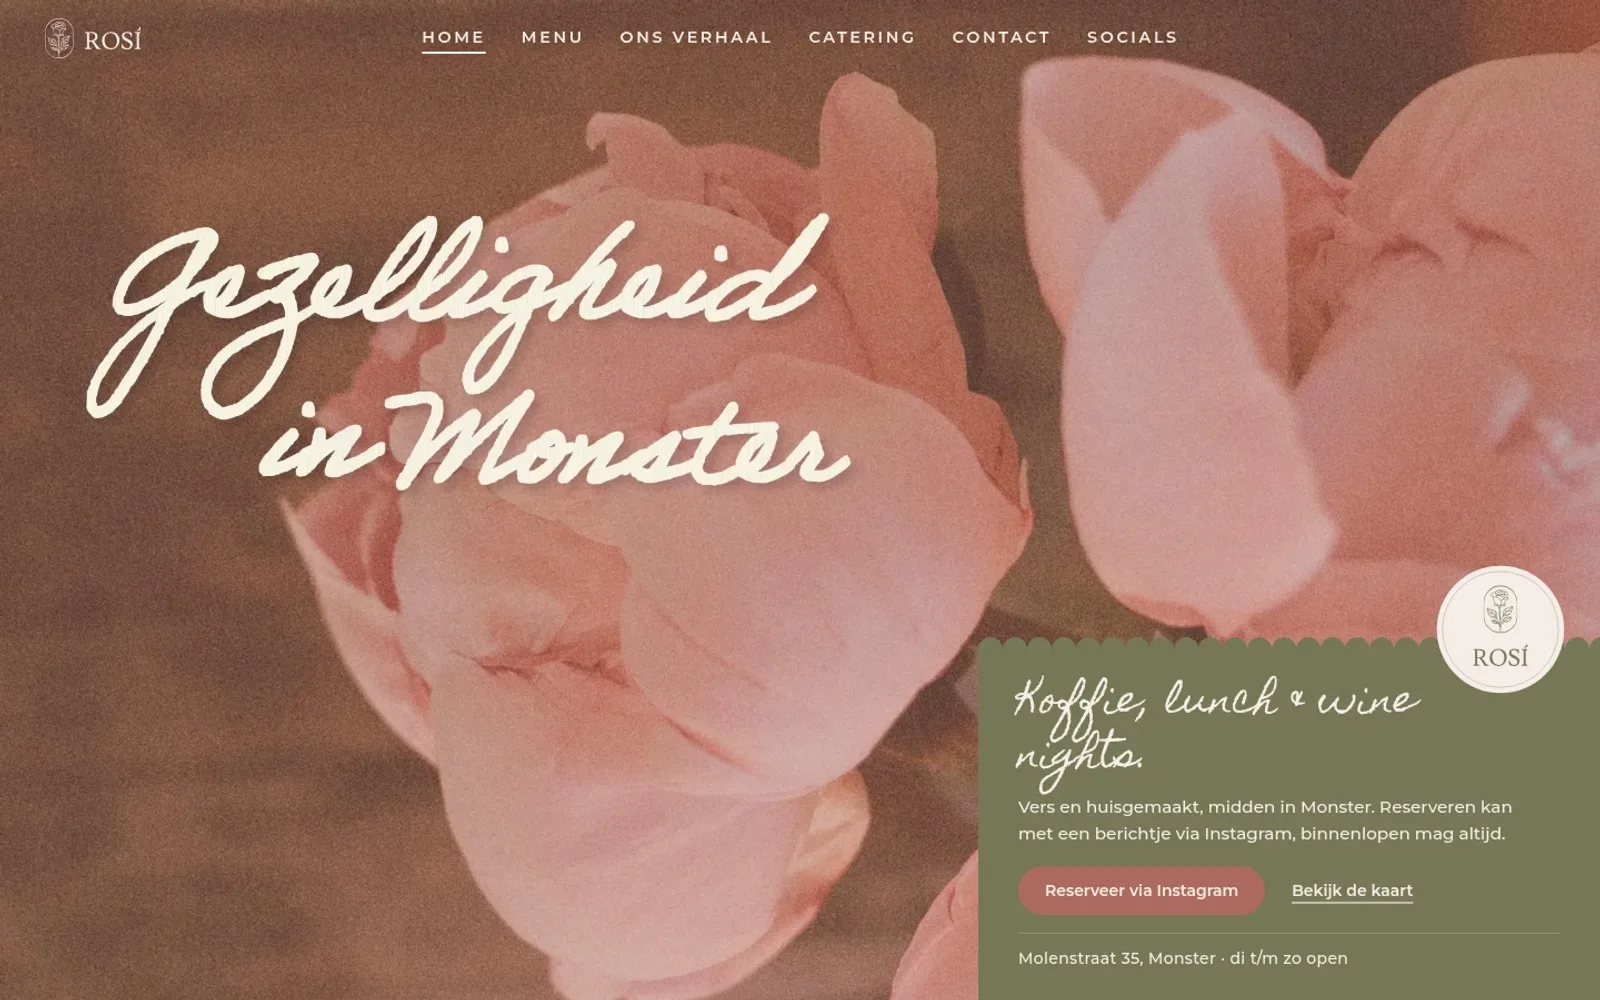
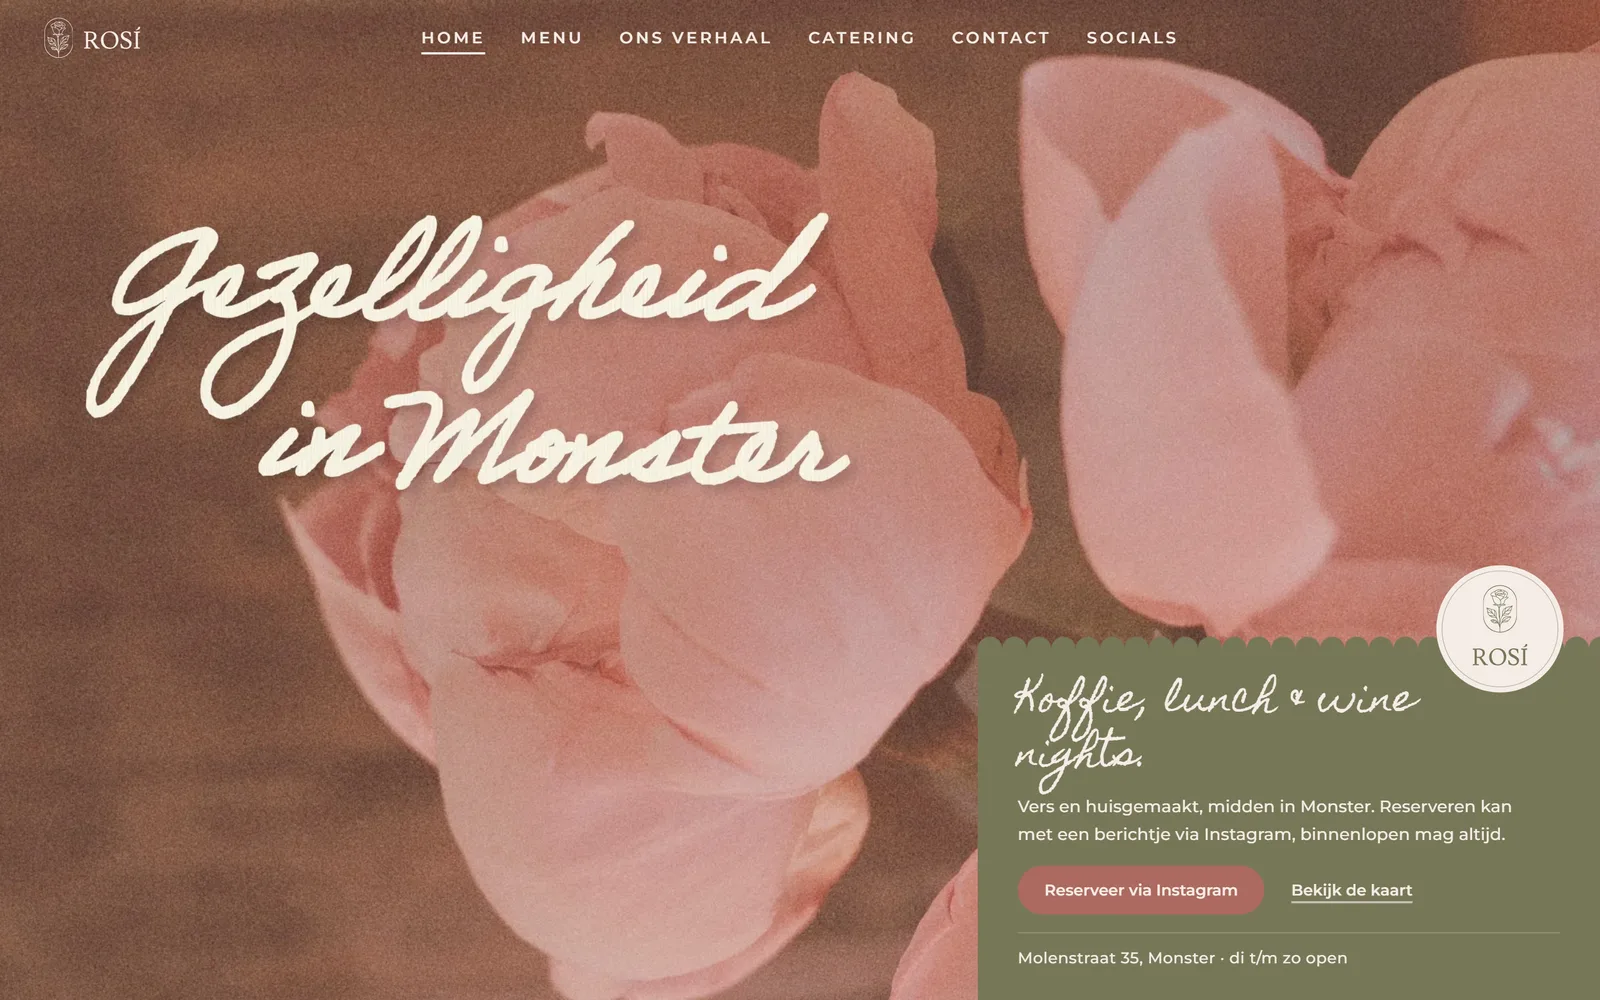
ZBN Ridderkerk en Lunchroom Rosí live in het werk
Allebei met een verse schermafbeelding van de live site, zonder
strepen en klikbaar. ZBN staat achter PlayerPath, Rosí achter
Den Witten Haen.

diff --git a/src/data/site.ts b/src/data/site.ts
@@ -269,6 +269,18 @@ export const projecten = [
     alt: 'De website van PlayerPath, software voor keeper- en voetbalscholen.',
   },
   {
+    sleutel: 'zbn-ridderkerk',
+    stack: [] as string[],
+    naam: 'Zonweringsbedrijf Noordenweg',
+    domein: 'zbnridderkerk.nl',
+    url: 'https://zbnridderkerk.nl',
+    soort: 'Website',
+    tekst:
+      'Zonwering, rolluiken, garagedeuren en terrasoverkappingen uit Ridderkerk. Eigen showroom, inmeten aan huis en montage door eigen monteurs.',
+    feit: 'Showroom in Ridderkerk',
+    alt: 'De website van Zonweringsbedrijf Noordenweg in Ridderkerk.',
+  },
+  {
     sleutel: 'slobtuinen',
     stack: [] as string[],
     naam: 'Slob Tuinen',
@@ -305,6 +317,18 @@ export const projecten = [
     alt: 'De website van Den Witten Haen in Dordrecht.',
   },
   {
+    sleutel: 'rosi',
+    stack: [] as string[],
+    naam: 'Lunchroom Rosí',
+    domein: 'lunchroomrosi.nl',
+    url: 'https://lunchroomrosi.nl',
+    soort: 'Website',
+    tekst:
+      'Lunchroom in het hart van Monster, begonnen als de droom van Fay. Verse koffie, huisgemaakte lunch, taart uit eigen oven en wine nights.',
+    feit: 'Molenstraat 35, Monster',
+    alt: 'De website van Lunchroom Rosí in Monster.',
+  },
+  {
     sleutel: 'aroma',
     stack: [] as string[],
     naam: 'Aroma Lunchroom',
@@ -316,32 +340,8 @@ export const projecten = [
     feit: 'Open maandag tot en met zaterdag',
     alt: 'De website van Aroma Lunchroom in Gorinchem.',
   },
-  {
-    sleutel: 'zbn-ridderkerk',
-    stack: [] as string[],
-    naam: 'Zonweringsbedrijf Noordenweg',
-    domein: 'binnenkort online',
-    url: null as string | null,
-    soort: 'Website',
-    status: 'preview' as const,
-    tekst:
-      'Zonwering, rolluiken, garagedeuren en terrasoverkappingen uit Ridderkerk. Eigen showroom, inmeten aan huis en montage door eigen monteurs.',
-    feit: 'Binnenkort live',
-    alt: 'De nieuwe website van Zonweringsbedrijf Noordenweg in Ridderkerk.',
-  },
-  {
-    sleutel: 'rosi',
-    stack: [] as string[],
-    naam: 'Lunchroom Rosí',
-    domein: 'binnenkort online',
-    url: null as string | null,
-    soort: 'Website',
-    status: 'preview' as const,
-    tekst:
-      'Lunchroom in het hart van Monster, begonnen als de droom van Fay. Verse koffie, huisgemaakte lunch, taart uit eigen oven en wine nights.',
-    feit: 'Binnenkort live',
-    alt: 'De nieuwe website van Lunchroom Rosí in Monster.',
-  },
+
+
   {
     sleutel: 'brillen-bij-u-thuis',
     stack: [] as string[],
